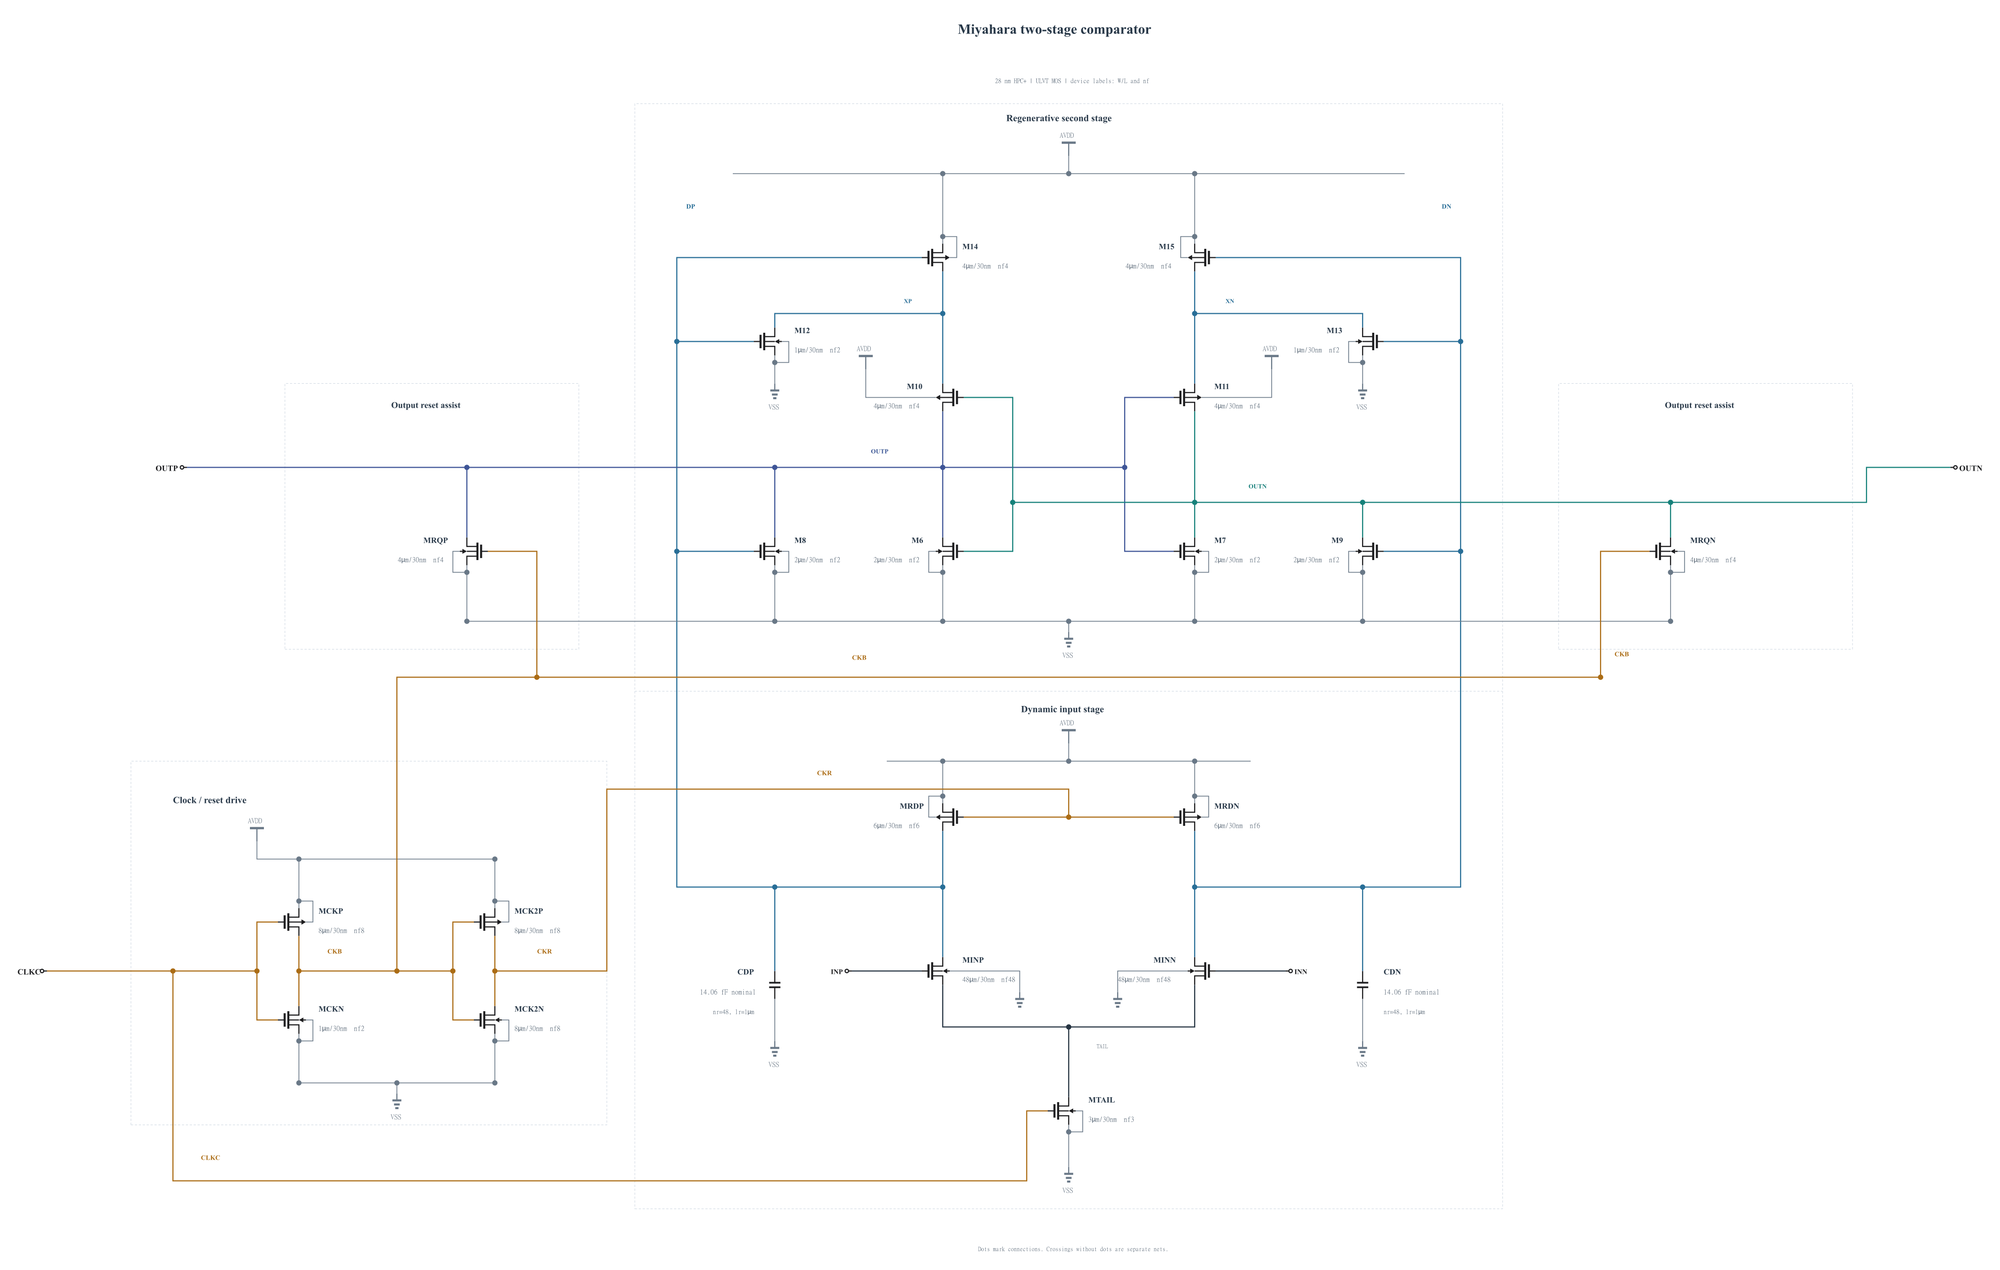
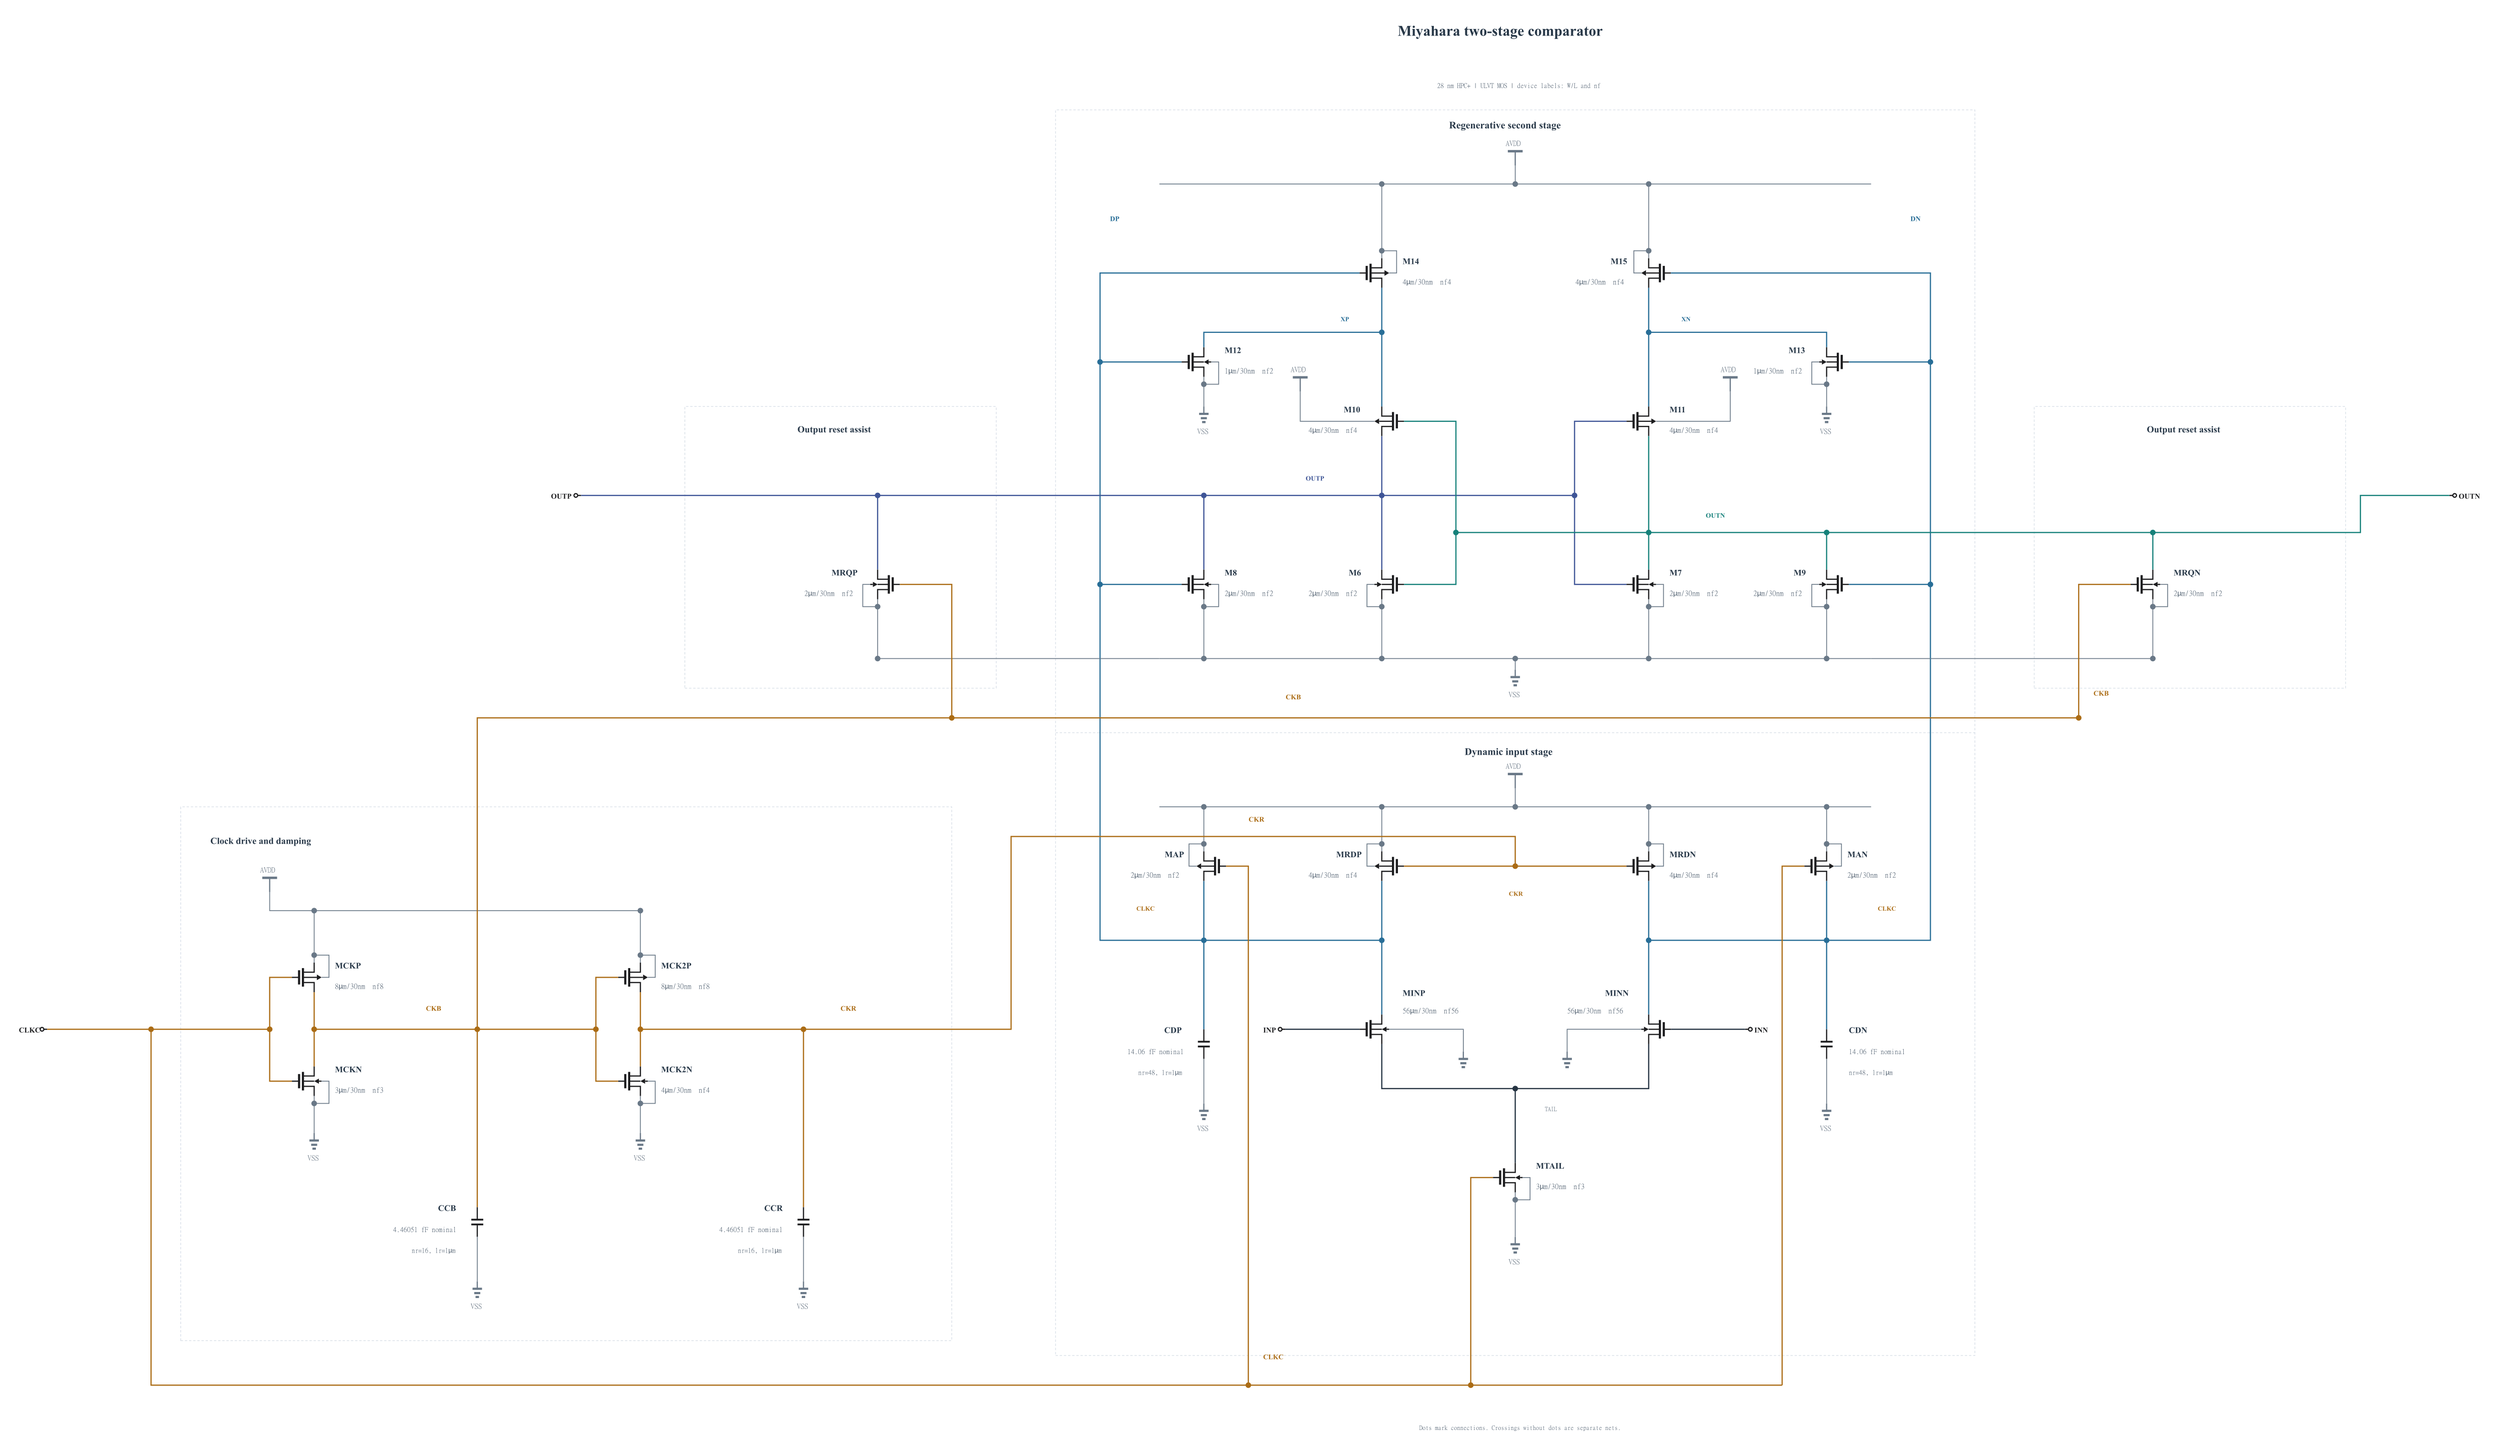
[adc_comp] freeze Miyahara split precharge and clock damping with full drawing

diff --git a/design/xtor/adc_comp/many-question-miyahara/CHARACTERIZATION.md b/design/xtor/adc_comp/many-question-miyahara/CHARACTERIZATION.md
@@ -1,6 +1,6 @@
 # Supplemental characterization
 
-These are private exploration runs using frozen netlist copies and the standard excitation and 10 fF loads. They are not official acceptance records. Every completed variant, including failures, is retained here. Each noise pilot uses 17 levels, 64 decisions per level, seed 1 and a 50 GHz bandwidth. Fine transient checks use 0.5 ps maximum step, traponly, reltol = 1e-6 and vabstol = 1e-8. Noise pilots retain the standard numerical settings.
+These are private exploration runs using frozen netlist copies and the standard excitation and 10 fF loads. They are not official acceptance records. Every completed variant, including failures, is retained here. Each noise pilot uses 17 levels, 64 decisions per level, seed 1 and a 50 GHz bandwidth. Fine transient checks use 0.5 ps maximum step (unless a smaller step is listed), traponly, reltol = 1e-6 and vabstol = 1e-8. Noise pilots retain the standard numerical settings.
 
 | Variant / corner | Test | Result |
 |---|---|---|
@@ -62,8 +62,27 @@ These are private exploration runs using frozen netlist copies and the standard 
 | q0t3c1 / tt_nom_27 | kickback (fine) | Cin 16.523 fF; CLKC 9.875 fF; kickback 0.000 uV |
 | q0t3c1 / tt_nom_27 | noise | noise 206.63 uV (95% CI 184.71–231.71); offset -0.0105 mV; weak decisions 0 |
 | r0t3c1 / ff_high_m40 | delay (fine) | 1 mV 36.55 ps; 30 mV 30.18 ps; reset 10.74 ps; energy 219.89 fJ; wrong 0; SOA violations 29 / 63; max 1.0121 V; simultaneous high points 0 |
+| w0t3c1 / ff_high_125 | delay (fine) | 1 mV 38.57 ps; 30 mV 29.21 ps; reset 11.19 ps; energy 352.49 fJ; wrong 0; SOA violations 2 / 69; max 1.0129 V; simultaneous high points 0 |
+| w0t3c1 / ff_high_m40 | delay (fine) | 1 mV 34.60 ps; 30 mV 28.28 ps; reset 9.94 ps; energy 208.01 fJ; wrong 0; SOA violations 28 / 69; max 1.0304 V; simultaneous high points 0 |
+| w0t3c1 / ss_low_125 | delay (fine) | 1 mV 63.12 ps; 30 mV 49.17 ps; reset 16.52 ps; energy 160.83 fJ; wrong 0; SOA violations 0 / 69; max 0.8379 V; simultaneous high points 0 |
+| w0t3c1 / tt_nom_27 | delay (fine) | 1 mV 45.85 ps; 30 mV 37.00 ps; reset 12.65 ps; energy 175.62 fJ; wrong 0; SOA violations 0 / 69; max 0.9339 V; simultaneous high points 0 |
+| w0t3c1 / tt_nom_27 | kickback (fine) | Cin 16.523 fF; CLKC 15.769 fF; kickback 0.000 uV |
+| w0t3c1 / tt_nom_27 | noise | noise 192.50 uV (95% CI 170.93–217.27); offset 0.0297 mV; weak decisions 0 |
+| w56t3c1 / ff_high_125 | delay (fine) | 1 mV 40.50 ps; 30 mV 30.71 ps; reset 11.58 ps; energy 368.48 fJ; wrong 0; SOA violations 4 / 69; max 1.0160 V; simultaneous high points 0 |
+| w56t3c1 / ff_high_m40 | delay (fine) | 1 mV 36.26 ps; 30 mV 29.70 ps; reset 10.29 ps; energy 220.55 fJ; wrong 0; SOA violations 28 / 69; max 1.0306 V; simultaneous high points 0 |
+| w56t3c1 / ss_low_125 | delay (fine) | 1 mV 65.83 ps; 30 mV 51.50 ps; reset 17.01 ps; energy 170.80 fJ; wrong 0; SOA violations 0 / 69; max 0.8378 V; simultaneous high points 0 |
+| w56t3c1 / tt_nom_27 | delay (fine) | 1 mV 47.82 ps; 30 mV 38.73 ps; reset 13.02 ps; energy 186.49 fJ; wrong 0; SOA violations 0 / 69; max 0.9341 V; simultaneous high points 0 |
+| w56t3c1 / tt_nom_27 | kickback (fine) | Cin 19.311 fF; CLKC 15.759 fF; kickback 0.000 uV |
+| w56t3c1 / tt_nom_27 | noise | noise 185.09 uV (95% CI 163.99–209.37); offset 0.0293 mV; weak decisions 0 |
+| x56t3c1 / ff_high_125 | delay (fine) | 1 mV 40.26 ps; 30 mV 30.78 ps; reset 14.85 ps; energy 356.36 fJ; wrong 0; SOA violations 3 / 69; max 1.0049 V; simultaneous high points 0 |
+| x56t3c1 / ff_high_m40 | delay (fine) | 1 mV 36.22 ps; 30 mV 29.78 ps; reset 13.11 ps; energy 217.17 fJ; wrong 0; SOA violations 28 / 69; max 1.0160 V; simultaneous high points 0 |
+| x56t3c1 / ss_low_125 | delay (fine) | 1 mV 65.26 ps; 30 mV 51.38 ps; reset 23.55 ps; energy 171.94 fJ; wrong 0; SOA violations 0 / 69; max 0.8333 V; simultaneous high points 0 |
+| x56t3c1 / tt_nom_27 | delay (fine) | 1 mV 47.61 ps; 30 mV 38.75 ps; reset 17.31 ps; energy 186.34 fJ; wrong 0; SOA violations 0 / 69; max 0.9215 V; simultaneous high points 0 |
+| x56t3c1 / tt_nom_27 | kickback (fine) | Cin 19.311 fF; CLKC 14.924 fF; kickback 0.000 uV |
+| x56t3c1 / tt_nom_27 | noise | noise 184.95 uV (95% CI 164.10–208.97); offset 0.0169 mV; weak decisions 0 |
+| x56t3c1 / ff_high_m40 / maxstep 0.25p | delay (fine) | 1 mV 36.22 ps; 30 mV 29.78 ps; reset 13.11 ps; energy 217.18 fJ; wrong 0; SOA violations 28 / 69; max 1.0160 V; simultaneous high points 0 |
 
-Variant notation: `b0` uses 48 um / 30 nm input devices; `b1` uses 48 um / 60 nm. Prefix `d` instead of `b` removes the four-MOS local clock buffer and drives the core directly from CLKC. The default tail width is 4 um; `t3`, `t2` and `t1` use 3 um, 2 um and 1 um. Prefix `g` uses clock-precharged output sensing nodes (a failed experiment with invalid fast-corner outputs). Prefix `u` removes the output buffers, directly loads the core with 10 fF per output and uses 2 um M8/M9. Prefix `v` additionally enlarges M8/M9 to 4 um and reduces input-drain precharge PMOS to 2 um; this fails slow-corner reset. Prefix `r` instead keeps 2 um M8/M9, uses 6 um input-drain precharge PMOS controlled by a two-inverter delayed clock, and adds two 4 um output-reset NMOS controlled by the inverted clock. Its tail remains driven directly by CLKC. Prefix `q` further changes the first clock inverter NMOS to 1 um and the second inverter NMOS to 8 um. StrongARM prefixes `s4` and `s12` set the regenerative NMOS pair to 4 um or 12 um; the corresponding PMOS widths are 4 um and 8 um. StrongARM `svtn`, `svtnp` and `hvtn` use, respectively, SVT NMOS, SVT NMOS/PMOS, and HVT NMOS in the regenerative pair, with 4 um regenerative devices and a 3 um tail. Their `c14` suffix is 14.06 fF per input drain and `c0` adds no capacitor. StrongARM `s56` uses 56 um input NMOS, a 12 um / 8 um regenerative pair and direct clocking; `k56` adds a two-inverter delay on the input-drain precharge PMOS gates and enlarges the directly clocked output-node precharge PMOS to 4 um. Suffixes `c1`, `c2`, `c4`, `c6` add a PDK MOM device from each input drain to ground, with nominal callback values 14.06, 27.42, 54.12 and 80.83 fF per side. The modeled device geometry, rather than an ideal capacitance, is simulated.
+Variant notation: `b0` uses 48 um / 30 nm input devices; `b1` uses 48 um / 60 nm. Prefix `d` instead of `b` removes the four-MOS local clock buffer and drives the core directly from CLKC. The default tail width is 4 um; `t3`, `t2` and `t1` use 3 um, 2 um and 1 um. Prefix `g` uses clock-precharged output sensing nodes (a failed experiment with invalid fast-corner outputs). Prefix `u` removes the output buffers, directly loads the core with 10 fF per output and uses 2 um M8/M9. Prefix `v` additionally enlarges M8/M9 to 4 um and reduces input-drain precharge PMOS to 2 um; this fails slow-corner reset. Prefix `r` instead keeps 2 um M8/M9, uses 6 um input-drain precharge PMOS controlled by a two-inverter delayed clock, and adds two 4 um output-reset NMOS controlled by the inverted clock. Its tail remains driven directly by CLKC. Prefix `q` further changes the first clock inverter NMOS to 1 um and the second inverter NMOS to 8 um. Miyahara `w0` and `w56` split input precharge into 4 um delayed-clock and 2 um direct-clock PMOS in parallel, use a 4 um first clock NMOS, and have 48 or 56 um input devices. `x56` instead uses 3 um first-clock and 2 um output-reset NMOS, and adds 4.46051 fF nominal MOM capacitors to CKB and CKR. StrongARM prefixes `s4` and `s12` set the regenerative NMOS pair to 4 um or 12 um; the corresponding PMOS widths are 4 um and 8 um. StrongARM `svtn`, `svtnp` and `hvtn` use, respectively, SVT NMOS, SVT NMOS/PMOS, and HVT NMOS in the regenerative pair, with 4 um regenerative devices and a 3 um tail. Their `c14` suffix is 14.06 fF per input drain and `c0` adds no capacitor. StrongARM `s56` uses 56 um input NMOS, a 12 um / 8 um regenerative pair and direct clocking; `k56` adds a two-inverter delay on the input-drain precharge PMOS gates and enlarges the directly clocked output-node precharge PMOS to 4 um. StrongARM `l16` and `l24` use 16 or 24 um output precharge PMOS driven by the same delayed clock as input precharge, with 56 um inputs. StrongARM `p56` uses 56 um inputs, series 4/6 um input-drain precharge, parallel 2/4 um output precharge, direct/delayed clock controls, and 4.46051 fF nominal MOM capacitors on CKB and CKD. Suffixes `c1`, `c2`, `c4`, `c6` add a PDK MOM device from each input drain to ground, with nominal callback values 14.06, 27.42, 54.12 and 80.83 fF per side. The modeled device geometry, rather than an ideal capacitance, is simulated.
 
 | Frozen netlist variant | SHA-256 |
 |---|---|
@@ -81,5 +100,8 @@ Variant notation: `b0` uses 48 um / 30 nm input devices; `b1` uses 48 um / 60 nm
[6 lines of base64/hex data omitted]
 
 A lower energy number is not a qualified comparison unless the same noise, timing, reset, input-load, kickback and SOA requirements are met. The table is exploratory evidence only; see the candidate README and repository results for the separately frozen formal run status.

diff --git a/design/xtor/adc_comp/many-question-miyahara/README.md b/design/xtor/adc_comp/many-question-miyahara/README.md
@@ -1,16 +1,16 @@
 # Miyahara comparator
 
-WIP transistor candidate in 28 nm HPC+. The current source is exploratory revision `q0t3c1`; it fails the TT noise/energy targets in the pilot and cold fast-corner SOA.
+WIP transistor candidate in 28 nm HPC+. The current source is revision `x56t3c1`. Its TT pilot meets the measured limits, but it remains unqualified because fast-corner device voltages exceed 1.0 V.
 
 The 15-MOS comparator core follows [Miyahara, A-SSCC 2008, Fig. 2(b)](https://www.ssc.p.isct.ac.jp/private/publications/2008/ASSCC/miyahara.pdf). DP and DN control separate M14/M15 second-stage supply devices and M12/M13 Xi reset devices. There is no shared clock-controlled second-stage supply. The calibration peripheral is omitted; the interface has no CAL or bias port.
 
-The core directly drives the two 10 fF output loads. INP > INN asserts OUTP. The core has native return-to-zero outputs, supplemented by two NMOS reset devices. A four-MOS local clock circuit delays the input-drain precharge controls and generates the complementary output-reset control. The tail remains connected directly to CLKC. This is 21 MOS devices in total, plus two permitted MOM capacitors; all clock and reset devices draw power from the measured AVDD rail.
+The core directly drives the two 10 fF output loads. INP > INN asserts OUTP. Native return-to-zero outputs are supplemented by two NMOS reset devices. Each input-drain precharge device has a smaller parallel PMOS driven directly by CLKC; the main precharge devices use locally delayed CKR. A four-MOS local clock circuit generates CKR and complementary CKB for output reset. The tail remains connected directly to CLKC. This is 23 MOS devices in total, plus four permitted MOM capacitors; all clock and reset devices draw power from the measured AVDD rail.
 
-The input pair is 48 um / 30 nm per side with 48 fingers, the tail is 3 um, input-drain precharge devices are 6 um, and the added output reset devices are 4 um. The first clock inverter is N/P = 1/8 um and the second is 8/8 um. Each DP/DN-to-ground MOM capacitor has a callback nominal value of 14.06 fF. Its actual geometry and model are simulated, not an ideal capacitor. MOS geometry and parasitics also come from successful device callbacks.
+The input pair is 56 um / 30 nm per side with 56 fingers, and the tail is 3 um. Input-drain precharge is 4 um on CKR plus 2 um on CLKC; output-reset NMOS are 2 um. The first clock inverter is N/P = 3/8 um and the second is 4/8 um. Each input drain has a 14.06 fF nominal MOM capacitor to ground; CKB and CKR each have 4.46051 fF nominal MOM capacitance to limit edge coupling. Actual geometry and device models are simulated, not ideal capacitors. MOS geometry and parasitics also come from successful callbacks.
 
 The larger 27.42 fF capacitors improve the pilot noise but fail the TT energy limit with the reset-assist circuit. Removing output buffers improves the earlier candidate's noise and energy, but the unassisted 15-MOS version fails fast-corner SOA and slow-corner reset. Weakening input precharge fixes the former at the cost of worse reset. All completed experiments, including failures and their frozen netlist hashes, are retained in [CHARACTERIZATION.md](CHARACTERIZATION.md).
 
-The immediately preceding `r0t3c1` experiment measured 181.4 uV rms in a 17-level x 64-decision TT pilot, 185.2 fJ from AVDD, 47.8/38.9 ps at 1/30 mV, and 18.0 ps reset at ss/low/125. Although its ff/high/125 maximum device voltage was 0.99994 V, ff/high/-40 reaches 1.01211 V. The current clock-sizing experiment `q0t3c1` also fails: TT pilot noise is 206.6 uV, AVDD energy is 202.1 fJ, and ff/high/-40 reaches 1.00960 V. Its TT delay is 54.5/45.6 ps at 1/30 mV and slow-corner reset is 17.1 ps. These are supplemental pilots, not formal acceptance.
+The current TT pilot is 184.95 uV rms (95% interval 164.10–208.97 uV), with 186.34 fJ from AVDD, 47.61/38.75 ps at 1/30 mV, 19.311 fF per input and 14.924 fF at CLKC. Slow-corner reset is 23.55 ps. The fine fast-corner checks still fail: ff/high/-40 reaches 1.01599 V and ff/high/125 reaches 1.00488 V. No wrong decisions at the tested differential inputs of at least 100 uV or simultaneous high outputs were observed. These are supplemental pilots, not formal acceptance, and do not establish all-corner coverage.
 
 ![Complete transistor schematic](schematic.png)
 
